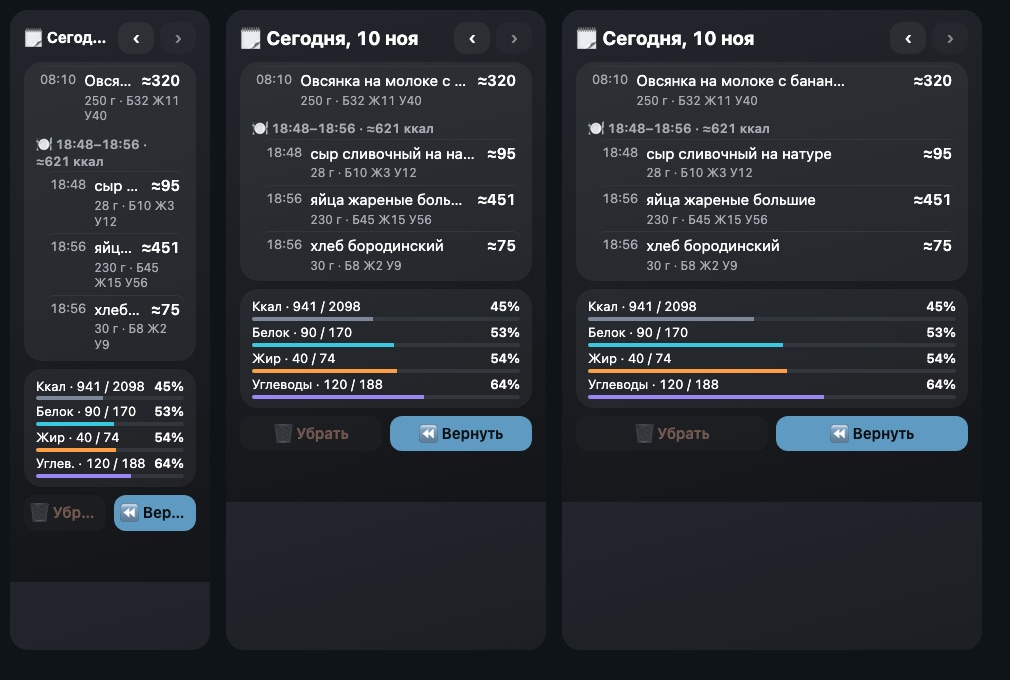
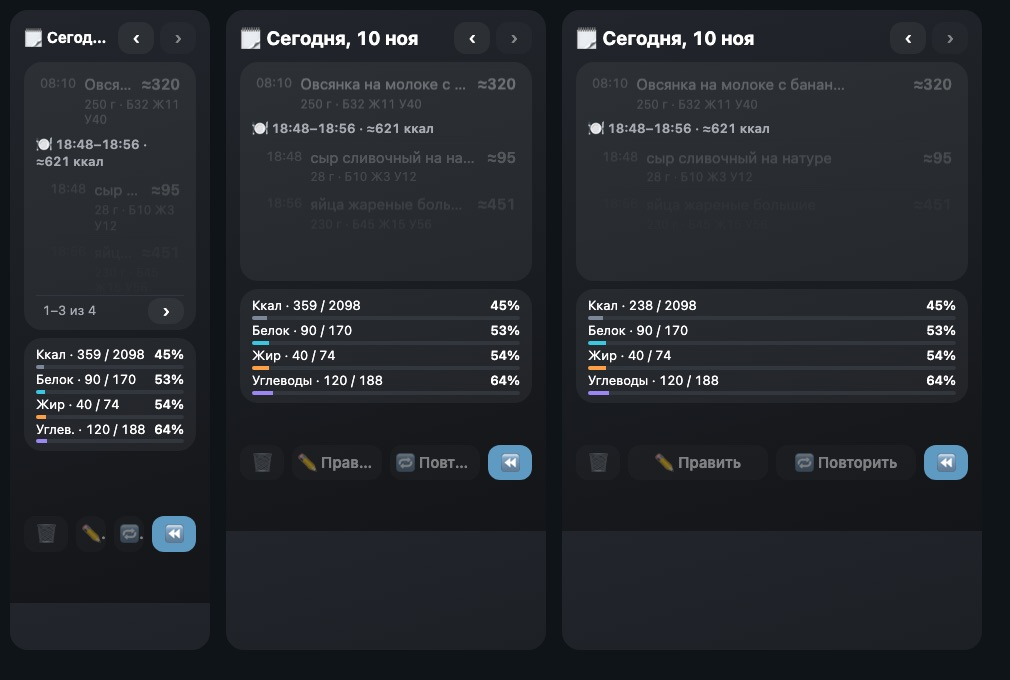
feat(bot): правка записи по тапу, повтор с весом, анимация по видимости
#comment Тап по записи в «Сегодня» открывает её карточку для правки граммов и удаления, в «Истории» — повтор с выбранным весом. Анимация стартует, когда виджет на экране, а низ пузыря держится на месте.

diff --git a/app/bot/widgets/day.html b/app/bot/widgets/day.html
@@ -8,23 +8,24 @@ button{font:inherit;font-weight:600;border:0;border-radius:12px;background:var(-
 .gh{font-size:13px;font-weight:600;padding:8px 0 2px;color:var(--m)}
 .e{display:grid;grid-template-columns:auto minmax(0,1fr) auto;gap:2px 8px;padding:4px 4px;border-top:1px solid var(--tr);cursor:pointer;border-radius:8px}.e.g{margin-left:10px}.e.on{background:var(--sl)}
 .e span{white-space:nowrap;overflow:hidden;text-overflow:ellipsis}.e small{grid-column:2/4;color:var(--m);font-size:12px}.e b{font-weight:600}
-.dy{padding:6px 12px}.dy>div{display:grid;grid-template-columns:minmax(0,1fr) auto;font-size:13px;margin:3px 0}.dy span{white-space:nowrap;overflow:hidden;text-overflow:ellipsis}.pg{display:flex;align-items:center;justify-content:flex-end;gap:8px;padding:6px 0;border-top:1px solid var(--tr)}@media (max-width:260px){header b{font-size:15px}}.dy b{font-weight:600}
+.dy{padding:6px 12px}.dy>div{display:grid;grid-template-columns:minmax(0,1fr) auto;font-size:13px;margin:2px 0}.dy span{white-space:nowrap;overflow:hidden;text-overflow:ellipsis}.pg{display:flex;align-items:center;justify-content:flex-end;gap:8px;padding:2px 0;border-top:1px solid var(--tr)}@media (max-width:260px){header b{font-size:15px}.pg .nv{height:26px}}.dy b{font-weight:600}
 .tk{grid-column:1/-1;height:4px;border-radius:2px;background:var(--tr);overflow:hidden;margin-top:2px}.tk i{display:block;height:100%}
 #ac{display:flex;gap:8px}#ac button{flex:1 1 0;white-space:nowrap;overflow:hidden;text-overflow:ellipsis;padding:8px 6px}.un{color:var(--al)}.bk{background:var(--ac);color:var(--at)}
+.rg{display:flex;align-items:center;gap:8px;margin-bottom:6px;font-size:13px}.rg button{width:34px;height:28px;padding:0;font-size:18px}.rg b{min-width:58px;text-align:center}
 .bz{opacity:.45;pointer-events:none}#ts{font-size:13px;margin-top:8px;color:var(--m);min-height:17px}
-.cu{counter-reset:n var(--n)}.cu::after{content:counter(n)}.an .cu{animation:cu 1s ease-out}@keyframes cu{from{--n:0}}.an .tk i{animation:g .9s ease-out}@keyframes g{from{width:0}}.an .e{animation:fu .4s ease-out both}@keyframes fu{from{opacity:0;transform:translateY(5px)}}@media (prefers-reduced-motion:reduce){.an *{animation:none!important}}</style>
+.an .tk i{animation:g .9s ease-out}@keyframes g{from{width:0}}.an .e{animation:fu .4s ease-out both}@keyframes fu{from{opacity:0;transform:translateY(5px)}}@media (prefers-reduced-motion:reduce){.an *{animation:none!important}}</style>
 <header><b id=tt></b><button class=nv data-n=1 aria-label="Предыдущий день">‹</button><button class=nv data-n=-1 aria-label="Следующий день">›</button></header>
-<div id=bd></div><div id=ac></div><div id=ts></div>
+<div id=bd></div><div id=rg></div><div id=ac></div><div id=ts></div>
 <script>
-let A1=1,CU=0;try{CSS.registerProperty({name:'--n',syntax:'<integer>',inherits:!1,initialValue:'0'});CU=1}catch(e){}const NU=v=>CU?'<span class=cu style="--n:'+v+'"></span>':v,AN=()=>{document.body.className=A1?'an':'';A1=0};
-const W=window.TelegramWidget,$=i=>document.getElementById(i),J=s=>{try{return JSON.parse(s)}catch(e){return null}},
+let A1=1;const TW=window.TelegramWidget;try{TW.setResizeAnchor('bottom')}catch(e){}const NU=v=>'<span class=cu data-n='+v+'>'+v+'</span>',AN=()=>{const v=!TW||TW.isActive!==!1;document.body.className=A1&&v?'an':'';if(A1&&v){A1=0;try{requestAnimationFrame(t0=>{const e=document.querySelectorAll('.cu'),f=t=>{const k=Math.min(1,(t-t0)/900);e.forEach(x=>x.textContent=Math.round(x.dataset.n*(1-(1-k)**3)));k<1&&requestAnimationFrame(f)};f(t0)})}catch(e){}}};try{TW.onEvent('activated',()=>{A1&&(window.RD||draw)()})}catch(e){}
+const W=TW,$=i=>document.getElementById(i),J=s=>{try{return JSON.parse(s)}catch(e){return null}},
 T=s=>(s+'').replace(/[&<>"]/g,c=>'&#'+c.charCodeAt(0)+';'),K=()=>Math.random().toString(36).slice(2,8).padEnd(6,'0'),
 L=['Ккал','Белок','Жир','Углеводы'],CL=['--br','--pr','--fa','--ca'],
 M={gone:'Этой записи уже нет.',old:'Вернуть уже нельзя — прошло 10 минут.',edited:'Запись уже поправили — не вернуть.',bad:'Так нельзя — открой историю заново.',busy:'Уже делаю…',TIMEOUT:'Бот не ответил — проверь в «Сегодня».',RATE_LIMITED:'Слишком часто — секунду.'};
-let D=null,S=null,WH=0,B=0,P=0;
+let D=null,S=null,WH=0,B=0,P=0,RG=0;
 const hp=t=>{try{t?W.HapticFeedback.notificationOccurred(t):W.HapticFeedback.selectionChanged()}catch(e){}},
 sel=x=>S&&x[0]==S[0]&&(!S[1]||x[1]==S[1]);
-function draw(){const d=D;if(!d||d.v!=1)return;const f=A1,nw=document.body.clientWidth<260,k=nw?4:5,pn=Math.ceil(d.e.length/k)||1;AN();$('tt').textContent='🗒 '+d.t;if(P>=pn)P=pn-1;
+function draw(){const d=D;if(!d||d.v!=1)return;const f=A1,nw=document.body.clientWidth<260,k=nw?3:4,pn=Math.ceil(d.e.length/k)||1;AN();$('tt').textContent='🗒 '+d.t;if(P>=pn)P=pn-1;
 document.querySelector('[data-n="-1"]').classList.toggle('bz',!d.da);let h='',g=-2;
 if(!d.e.length)h='<div class=m style="padding:10px 0">Ничего не записано.</div>';
 d.e.forEach((x,i)=>{if(i<P*k||i>=P*k+k)return;if(x[10]!=g){g=x[10];if(g>=0){const r=d.g[g];h+='<div class=gh>🍽 '+r[0]+' · '+(r[2]?'≈':'')+r[1]+' ккал</div>'}}
@@ -33,15 +34,18 @@ if(pn>1)h+='<div class=pg><span class=m>'+(P*k+1)+'–'+Math.min(d.e.length,P*k+
 if(d.mo&&P==pn-1)h+='<div class=m style="padding:4px 0">Ещё '+d.mo+' — в приложении ↓</div>';
 $('bd').innerHTML='<div class=c>'+h+'</div><div class="c dy">'+d.dy.map((r,i)=>'<div><span>'+(nw&&i==3?'Углев.':L[i])+' · '+(f&&!i?NU(r[0]):r[0])+' / '+r[1]+'</span><b'+(!i&&r[0]>r[1]?' style="color:var(--dg)"':'')+'>'+r[2]+'%</b><div class=tk><i style="width:'+Math.max(0,Math.min(100,r[2]))+'%;background:var('+CL[i]+')"></i></div></div>').join('')+'</div>';
 const x=S&&d.e.find(sel),whole=S&&!S[1];
-$('ac').innerHTML='<button class="un'+(x?'':' bz')+'" data-q=x>🗑 '+(whole?'Всю запись':'Убрать')+'</button>'+(d.da?'<button class="'+(x?'':'bz')+'" data-q=p>🔁 '+(whole?'Всю — в сегодня':'В сегодня')+'</button>':'')+(d.z?'<button class=bk data-q=r>⏪ Вернуть</button>':'')}
+const gw=x&&!whole&&x[4];
+$('rg').innerHTML='<div class=rg'+(gw?'':' style="visibility:hidden"')+'><span class=m>повторить</span><button data-g=-1>−</button><b>'+RG+' г</b><button data-g=1>+</button><span class=m>≈ '+(gw?Math.round(x[5]*RG/x[4]):0)+' ккал</span></div>';
+$('ac').innerHTML='<button class="un'+(x?'':' bz')+'" data-q=x style="flex:0 0 44px" aria-label="Убрать">🗑</button><button class="'+(x?'':'bz')+'" data-q=o>✏ Править</button><button class="'+(x?'':'bz')+'" data-q=p>🔁 '+(whole?'Всю запись':'Повторить')+'</button>'+(d.z?'<button class=bk data-q=r style="flex:0 0 44px" aria-label="Вернуть">⏪</button>':'')}
 function send(q,el){if(!W||!W.request||B)return;B=1;el&&el.classList.add('bz');
 const fin=(r,e)=>{B=0;el&&el.classList.remove('bz');if(r&&r.v){D=r;if(!D.e.some(sel))S=null;$('ts').textContent=r.tm||'';hp(r.ok?'success':'')}else{hp('error');$('ts').textContent=M[r?r.err:e&&e.code]||'Не вышло — попробуй ещё раз.'}draw()};
 try{W.request(q).then(a=>fin(J(a&&a.result)||{err:'fail'}),e=>fin(null,e))}catch(e){fin(null,null)}}
 document.addEventListener('click',ev=>{if(!D||B)return;const b=ev.target.closest('button'),r=ev.target.closest('[data-i]');
 if(b&&b.dataset.p){P+= +b.dataset.p;hp();draw();return}
 if(b&&b.dataset.n){P=0;const n=D.da+ +b.dataset.n;if(n<0)return;WH=Math.max(WH,$('bd').offsetHeight);$('bd').style.minHeight=WH+'px';S=null;$('ts').textContent='';send('h:d:'+n,b);return}
-if(b&&b.dataset.q){const q=b.dataset.q,x=S&&D.e.find(sel);if(q=='r')send('h:r:'+D.da+':'+K(),b);else if(x)send('h:'+q+':'+D.da+':'+x[0]+':'+(S[1]||0)+':'+K(),b);return}
-if(r){const x=D.e[+r.dataset.i];S=S&&S[0]==x[0]&&S[1]==x[1]&&x[11]?[x[0],0]:S&&S[0]==x[0]&&!S[1]?null:[x[0],x[1]];hp();draw()}});
+if(b&&b.dataset.g){RG=Math.min(2000,Math.max(1,RG+10*b.dataset.g));hp();draw();return}
+if(b&&b.dataset.q){const q=b.dataset.q,x=S&&D.e.find(sel);if(q=='r')send('h:r:'+D.da+':'+K(),b);else if(q=='o'&&x){try{W.request('o:'+x[0]+':'+K()).then(()=>hp('success'),()=>0)}catch(e){}$('ts').textContent='✏ Карточка записи — ниже.'}else if(x)send('h:'+q+':'+D.da+':'+x[0]+':'+(S[1]||0)+(q=='p'?':'+(S[1]&&x[4]?RG:0):'')+':'+K(),b);return}
+if(r){const x=D.e[+r.dataset.i];S=S&&S[0]==x[0]&&S[1]==x[1]&&x[11]?[x[0],0]:S&&S[0]==x[0]&&!S[1]?null:[x[0],x[1]];RG=x[4];hp();draw()}});
 if(W){W.onEvent('chatDataChanged',()=>{const d=J(W.chatData);if(d&&!B&&D&&d.da==D.da){D=d;draw()}});D=J(W.chatData);draw();try{W.ready&&W.ready()}catch(e){}}else{D=null}
 if(!D)document.body.insertAdjacentHTML('beforeend','<p class=m>Нет данных.</p>');
 </script>

diff --git a/app/bot/widgets/meal.html b/app/bot/widgets/meal.html
@@ -3,7 +3,7 @@
 body{margin:0;padding:12px 14px max(26px,env(safe-area-inset-bottom));font:15px/1.3 system-ui,sans-serif;overflow-wrap:anywhere;color:var(--t);background:linear-gradient(165deg,var(--b1),var(--b2));font-variant-numeric:tabular-nums}
 .r{display:flex;align-items:center;gap:6px}.sp{flex:1}.m{color:var(--m);font-size:13px}header{flex-wrap:wrap;margin-bottom:8px}header b{font-size:20px}
 .bg{font-size:clamp(26px,11vw,40px);font-weight:700;letter-spacing:-1px;line-height:1.05}.bg small{font-size:14px;color:var(--m);font-weight:500;margin-left:3px}
-.mc{display:flex;flex-wrap:wrap;gap:4px 12px;font-size:13px;color:var(--m);margin:4px 0 10px}.mc b{color:var(--t);font-weight:600}.d{display:inline-block;width:7px;height:7px;border-radius:50%;margin-right:4px}
+.mc{display:flex;flex-wrap:wrap;gap:4px 12px;font-size:13px;color:var(--m);margin:2px 0 8px}.mc b{color:var(--t);font-weight:600}
 .c{background:var(--cd);border-radius:18px;padding:4px 12px;margin-bottom:8px}
 .it{display:grid;grid-template-columns:minmax(0,1fr) auto auto;gap:6px 10px;padding:8px 0;border-top:1px solid var(--tr);align-items:center;cursor:pointer}.it:first-child{border:0}.it .m{text-align:right}.ed{grid-column:1/3}
 .nm{overflow:hidden;text-overflow:ellipsis;white-space:nowrap;font-weight:600}.nm s,.dy s{text-decoration:none;color:var(--m);font-weight:400}.kc{text-align:right;font-weight:600}.kc.pv{color:var(--m)}
@@ -15,14 +15,14 @@ button{font:inherit;font-weight:600;border:0;border-radius:12px;background:var(-
 #ac{display:flex;gap:8px;flex-wrap:wrap}#ac button{flex:1 1 120px;white-space:nowrap;padding:8px}.un{color:var(--al)}.bk{background:var(--ac);color:var(--at)}
 #ts{font-size:13px;margin-top:8px;color:var(--m)}#ts:empty{display:none}
 @media (max-width:260px){.st b{min-width:50px}.st button{width:28px}.bg{font-size:26px}.it{padding:6px 0}.dy{grid-template-columns:minmax(0,1fr);gap:4px;padding:8px 10px}.dy>div{grid-template-columns:auto minmax(0,1fr) auto;column-gap:5px;font-size:12px}.dy>div>b{grid-column:auto;order:1;font-size:12px;white-space:nowrap}.dy>div>i{order:2}}
-.cu{counter-reset:n var(--n)}.cu::after{content:counter(n)}.an .cu{animation:cu 1s ease-out}@keyframes cu{from{--n:0}}.an .tk i{animation:g .9s ease-out}@keyframes g{from{width:0}}@media (prefers-reduced-motion:reduce){.an *{animation:none!important}}</style>
+.an .tk i{animation:g .9s ease-out}@keyframes g{from{width:0}}@media (prefers-reduced-motion:reduce){.an *{animation:none!important}}</style>
 <header class=r><b id=hd>Записал</b><span class=m id=at></span><span class=sp></span></header>
 <div id=bd></div><div id=ac></div><div id=ts></div>
 <script>
-let A1=1,CU=0;try{CSS.registerProperty({name:'--n',syntax:'<integer>',inherits:!1,initialValue:'0'});CU=1}catch(e){}const NU=v=>CU?'<span class=cu style="--n:'+v+'"></span>':v,AN=()=>{document.body.className=A1?'an':'';A1=0};
-const W=window.TelegramWidget,$=i=>document.getElementById(i),J=s=>{try{return JSON.parse(s)}catch(e){return null}},R=Math.round,
+let A1=1;const TW=window.TelegramWidget;try{TW.setResizeAnchor('bottom')}catch(e){}const NU=v=>'<span class=cu data-n='+v+'>'+v+'</span>',AN=()=>{const v=!TW||TW.isActive!==!1;document.body.className=A1&&v?'an':'';if(A1&&v){A1=0;try{requestAnimationFrame(t0=>{const e=document.querySelectorAll('.cu'),f=t=>{const k=Math.min(1,(t-t0)/900);e.forEach(x=>x.textContent=Math.round(x.dataset.n*(1-(1-k)**3)));k<1&&requestAnimationFrame(f)};f(t0)})}catch(e){}}};try{TW.onEvent('activated',()=>{A1&&(window.RD||draw)()})}catch(e){}
+const W=TW,$=i=>document.getElementById(i),J=s=>{try{return JSON.parse(s)}catch(e){return null}},R=Math.round,
 T=s=>(s+'').replace(/[&<>"]/g,c=>'&#'+c.charCodeAt(0)+';'),K=()=>Math.random().toString(36).slice(2,8).padEnd(6,'0'),C=n=>(n+'').replace('.',','),
-M={busy:'Ещё пишу предыдущее…',gone:'Записи уже нет — открой «Сегодня».',old:'Вернуть уже нельзя — прошло 10 мин.',edited:'Запись уже поправили — не вернуть.',bad:'Не вышло — открой карточку заново.',RATE_LIMITED:'Слишком часто — секунду.',TIMEOUT:'Бот не ответил — проверь в «Сегодня».'};
+M={busy:'Ещё пишу…',gone:'Записи уже нет — открой «Сегодня».',old:'Вернуть уже нельзя — прошло 10 мин.',edited:'Запись уже поправили — не вернуть.',bad:'Не вышло — открой карточку заново.',RATE_LIMITED:'Слишком часто — секунду.',TIMEOUT:'Бот не ответил — проверь в «Сегодня».'};
 let D=null,B=0,P={},S=0,F={};
 const hp=t=>{try{t?W.HapticFeedback.notificationOccurred(t):W.HapticFeedback.selectionChanged()}catch(e){}},
 G=x=>P[x[0]]!=null?P[x[0]]:x[2],
@@ -31,7 +31,7 @@ toast=s=>{$('ts').textContent=s||''};
 function draw(){const d=D;if(!d||d.v!=1)return;AN();if(d.i[0]&&!d.i.some(x=>x[0]==S))S=d.i[0][0];const k=d.k;$('hd').textContent=d.hd||'Записал';$('at').textContent=d.at?d.at+' · '+d.dl:'';
 if(d.x){$('bd').innerHTML='<div class=c style="padding:10px 12px"><b>'+(d.nb?'📌 Вошло в набор «'+T(d.nb)+'»':'Запись удалена')+'</b><div class=m>'+(d.nb?'Карточка набора — ниже.':T(d.i.map(x=>x[1]).join(', '))+' · '+k[0]+'\u00a0ккал')+'</div></div>';$('ac').innerHTML=d.z?'<button class=bk data-q=r>⏪ Вернуть</button>':'';return}
 const nw=document.body.clientWidth<260,n=nw?3:4,V=d.i.length>n+1?d.i.slice(0,n):d.i;if(V!=d.i&&!V.some(x=>x[0]==S))V[n-1]=d.i.find(x=>x[0]==S);
-$('bd').innerHTML='<div class=bg>+'+NU(k[0])+'<small>ккал</small></div><div class=mc><span><i class=d style="background:var(--pr)"></i>Б <b>'+k[1]+'</b></span><span><i class=d style="background:var(--fa)"></i>Ж <b>'+k[2]+'</b></span><span><i class=d style="background:var(--ca)"></i>У <b>'+k[3]+'</b></span>'+(d.ss?'<span>приём пищи <b>'+d.ss+'</b></span>':'')+'</div><div class=c>'+
+$('bd').innerHTML='<div class=bg>+'+NU(k[0])+'<small>ккал</small></div><div class=mc>Б <b>'+k[1]+'</b> · Ж <b>'+k[2]+'</b> · У <b>'+k[3]+'</b>'+(d.ss?' · приём пищи <b>'+d.ss+'</b>':'')+'</div><div class=c>'+
 V.map(x=>{const g=G(x),p=g!=x[2],o=d.i.length<4||x[0]==S;return'<div class=it data-i='+x[0]+'><div class=nm>'+T(x[1])+(x[4]?' <s>≈</s>':'')+'</div><div class=m>'+(o||!x[2]?'':C(g)+'\u00a0г')+'</div><div class="kc'+(p?' pv':'')+'">'+(p?R(x[3]*g/x[2]):x[3])+'</div>'+
 (o?(x[5]?'<div class="st ed"><button data-s=-1>−</button><b'+(p?' class=pv':'')+'>'+C(g)+'\u00a0г</b><button data-s=1>+</button></div>':'<div class="m ed" style="text-align:left">'+(x[2]?C(x[2])+'\u00a0г · вес не правится':'без веса')+'</div>')+
 (d.i.length>1?'<button class=dl data-q=d>🗑</button>':'<span></span>'):'')+'</div>'}).join('')+(V.length<d.i.length?'<div class="it m" style="cursor:default;display:block">+'+(d.i.length-V.length)+' — правка в приложении ↓</div>':'')+'</div>'+
@@ -43,7 +43,7 @@ try{W.request(q+':'+K()).then(a=>fin(J(a&&a.result)||{err:'fail'}),e=>fin(null,e
 function flush(){if(B||!D||D.x)return;const x=D.i.find(x=>P[x[0]]!=null&&P[x[0]]!=x[2]&&P[x[0]]!=F[x[0]]);if(x){F[x[0]]=P[x[0]];send('m:a:'+D.m+':'+x[0]+':'+P[x[0]],document.querySelector('[data-i="'+x[0]+'"] .st'))}}
 document.addEventListener('click',ev=>{const b=ev.target.closest('button'),it=ev.target.closest('[data-i]');if(!b&&it&&D&&D.i.length>3){S=+it.dataset.i;hp();draw();return}if(!b||!D)return;const row=b.closest('[data-i]'),id=row&&+row.dataset.i,x=row&&D.i.find(x=>x[0]==id);
 if(b.dataset.s&&x){const g=Math.min(2000,Math.max(1,R(G(x))+10*b.dataset.s));if(g!=G(x)){P[id]=g;hp();draw();flush()}return}
-if(B){toast(M.BUSY);return}const q=b.dataset.q;
+if(B){toast(M.busy);return}const q=b.dataset.q;
 if(q=='d'&&x)send('m:d:'+D.m+':'+id,row);else if(q=='u'||q=='r')send('m:'+q+':'+D.m,b)});
 function load(){D=J(W&&W.chatData);P={};F={};draw()}
 function upd(){const d=J(W.chatData);if(B||!d||d.v!=1||(D&&d.rv<D.rv))return;D=d;draw()}

diff --git a/app/bot/widgets/frequent.html b/app/bot/widgets/frequent.html
@@ -11,19 +11,19 @@ header{display:flex;align-items:baseline;gap:8px;margin-bottom:10px}header b{fon
 #ts button[disabled]{background:var(--tr);color:var(--m)}
 @media (prefers-reduced-motion:reduce){.tl{transition:none}.tl.ok{animation:none;box-shadow:inset 0 0 0 2px var(--ok)}}
 @media (max-width:260px){#g{grid-template-columns:minmax(0,1fr);gap:6px}.tl{padding:8px 10px;min-height:0}.tl b{white-space:nowrap;text-overflow:ellipsis}header .m{display:none}}
-.an .tl{animation:fu .45s ease-out both}@keyframes fu{from{opacity:0;transform:translateY(6px)}}@media (prefers-reduced-motion:reduce){.an *{animation:none!important}}</style>
+.an .tl{animation:fu .45s ease-out both}@keyframes fu{from{opacity:0;transform:translateY(6px)}}@media (prefers-reduced-motion:reduce){.an *{animation:none!important}}@media (max-width:260px){#ts{display:none}}</style>
 <header><b>⚡ Частое</b><span class=m>тап — запишу сразу</span></header>
 <div id=g lang=ru></div><div id=ts><span id=tx></span><button id=ub>⏪ Вернуть</button></div>
 <script>
-let A1=1,CU=0;try{CSS.registerProperty({name:'--n',syntax:'<integer>',inherits:!1,initialValue:'0'});CU=1}catch(e){}const NU=v=>CU?'<span class=cu style="--n:'+v+'"></span>':v,AN=()=>{document.body.className=A1?'an':'';A1=0};
-const W=window.TelegramWidget,$=i=>document.getElementById(i),J=s=>{try{return JSON.parse(s)}catch(e){return null}},
+let A1=1;const TW=window.TelegramWidget;try{TW.setResizeAnchor('bottom')}catch(e){}const NU=v=>'<span class=cu data-n='+v+'>'+v+'</span>',AN=()=>{const v=!TW||TW.isActive!==!1;document.body.className=A1&&v?'an':'';if(A1&&v){A1=0;try{requestAnimationFrame(t0=>{const e=document.querySelectorAll('.cu'),f=t=>{const k=Math.min(1,(t-t0)/900);e.forEach(x=>x.textContent=Math.round(x.dataset.n*(1-(1-k)**3)));k<1&&requestAnimationFrame(f)};f(t0)})}catch(e){}}};try{TW.onEvent('activated',()=>{A1&&(window.RD||draw)()})}catch(e){}
+const W=TW,$=i=>document.getElementById(i),J=s=>{try{return JSON.parse(s)}catch(e){return null}},
 T=s=>(s+'').replace(/[&<>"]/g,c=>'&#'+c.charCodeAt(0)+';');
 let D=null,B=0,U=null;
 const K=()=>Math.random().toString(36).slice(2,8).padEnd(6,'0'),hp=t=>{try{W.HapticFeedback.notificationOccurred(t)}catch(e){}},
 L=l=>l<0?'перебор '+-l:'осталось '+l,
 ERR={BUSY:'Ещё пишу предыдущее…',RATE_LIMITED:'Слишком часто — секунду.',TIMEOUT:'Бот не ответил — проверь в «Сегодня».',NOT_ALLOWED:'Открой чат с ботом, чтобы записать.'};
 function draw(){AN();D=J(W&&W.chatData);const t=D&&D.t||[];$('g').innerHTML=t.length?t.map((x,i)=>'<div class=tl data-i='+i+' style="animation-delay:'+i*40+'ms"><b>'+(x[2][0]=='s'?'📌 ':'')+T(x[0])+'</b><span>'+(x[2][0]=='s'?'':T(x[1]).replace(' ','\u00a0')+' · ')+(x[4]?'≈':'')+x[3]+'\u00a0ккал</span></div>').join(''):'<p class=m>Пока нечего показать — запиши пару раз одно и то же.</p>'}
-function toast(s,u){$('ts').style.visibility='visible';$('tx').innerHTML=s;$('ub').style.display=u?'':'none';$('ub').disabled=false}
+function toast(s,u){$('ts').style.cssText='visibility:visible;display:flex';$('tx').innerHTML=s;$('ub').style.display=u?'':'none';$('ub').disabled=false}
 function idle(el){B=0;el.classList.remove('bz');const b=el.querySelector('b');b.innerHTML=b.dataset.n}
 document.addEventListener('click',ev=>{document.body.classList.remove('an');const el=ev.target.closest('.tl');
 if(el&&W&&!B){const x=D.t[+el.dataset.i],b=el.querySelector('b');B=1;document.querySelectorAll('.ok').forEach(t=>t.classList.remove('ok'));el.classList.add('bz');b.dataset.n=b.innerHTML;b.textContent='Пишу…';

diff --git a/app/bot/widgets/confirm.html b/app/bot/widgets/confirm.html
@@ -13,12 +13,12 @@ button{font:inherit;font-weight:600;border:0;border-radius:12px;background:var(-
 #ac{display:flex;gap:8px;flex-wrap:wrap}#ac button{flex:1 1 120px;padding:9px}.go{background:var(--ac);color:var(--at)}.no{background:var(--cd);color:var(--al)}
 .st{white-space:nowrap}@media (max-width:260px){.c{padding:4px 8px}.sz{font-size:11px;padding:3px 5px}.ch{gap:4px}#ac button{flex-basis:60px;font-size:13px;padding:8px 4px}}
 .bz{opacity:.45;pointer-events:none}#ts{font-size:13px;margin-top:8px;color:var(--m)}#ts:empty{display:none}.dn{font-weight:600;color:var(--ok)}
-.cu{counter-reset:n var(--n)}.cu::after{content:counter(n)}.an .cu{animation:cu .9s ease-out}@keyframes cu{from{--n:0}}.an .it{animation:fu .4s ease-out both}@keyframes fu{from{opacity:0;transform:translateY(6px)}}@media (prefers-reduced-motion:reduce){.an *{animation:none!important}}</style>
+.an .it{animation:fu .4s ease-out both}@keyframes fu{from{opacity:0;transform:translateY(6px)}}@media (prefers-reduced-motion:reduce){.an *{animation:none!important}}</style>
 <header><b>🍽 Проверь и запиши</b><div class=m>размер — тапом, граммы — ± 10</div></header>
 <div id=bd></div><div id=ac></div><div id=ts></div>
 <script>
-let A1=1,CU=0;try{CSS.registerProperty({name:'--n',syntax:'<integer>',inherits:!1,initialValue:'0'});CU=1}catch(e){}const NU=v=>CU?'<span class=cu style="--n:'+v+'"></span>':v,AN=()=>{document.body.className=A1?'an':'';A1=0};
-const W=window.TelegramWidget,$=i=>document.getElementById(i),J=s=>{try{return JSON.parse(s)}catch(e){return null}},R=Math.round,
+let A1=1;const TW=window.TelegramWidget;try{TW.setResizeAnchor('bottom')}catch(e){}const NU=v=>'<span class=cu data-n='+v+'>'+v+'</span>',AN=()=>{const v=!TW||TW.isActive!==!1;document.body.className=A1&&v?'an':'';if(A1&&v){A1=0;try{requestAnimationFrame(t0=>{const e=document.querySelectorAll('.cu'),f=t=>{const k=Math.min(1,(t-t0)/900);e.forEach(x=>x.textContent=Math.round(x.dataset.n*(1-(1-k)**3)));k<1&&requestAnimationFrame(f)};f(t0)})}catch(e){}}};try{TW.onEvent('activated',()=>{A1&&(window.RD||draw)()})}catch(e){}
+const W=TW,$=i=>document.getElementById(i),J=s=>{try{return JSON.parse(s)}catch(e){return null}},R=Math.round,
 T=s=>(s+'').replace(/[&<>"]/g,c=>'&#'+c.charCodeAt(0)+';'),K=()=>Math.random().toString(36).slice(2,8).padEnd(6,'0'),
 M={need:'Выбери размер у отмеченных.',old:'Разбор устарел — пришли еду заново.',bad:'Так не записать — пришли еду заново.',busy:'Уже записываю…',TIMEOUT:'Бот не ответил — проверь в «Сегодня».',RATE_LIMITED:'Слишком часто — секунду.'};
 let D=null,G=[],B=0,ND=0,DONE='';

diff --git a/app/bot/widgets/evening.html b/app/bot/widgets/evening.html
@@ -11,14 +11,14 @@ body{margin:0;padding:12px 14px max(26px,env(safe-area-inset-bottom));font:15px/
 button{font:600 15px system-ui,sans-serif;border:0;border-radius:14px;padding:11px 14px;width:100%;background:var(--ac);color:var(--at);cursor:pointer;margin-top:8px}
 button[disabled]{background:var(--tr);color:var(--m)}.dn{color:var(--ok);font-weight:600}
 @media (max-width:260px){.bg{font-size:20px}.bg small{display:block;margin:0}.hr{gap:8px}#cl .m{display:none}#nt div{font-size:13px}}
-.cu{counter-reset:n var(--n)}.cu::after{content:counter(n)}.an .cu{animation:cu 1s ease-out}@keyframes cu{from{--n:0}}.an .tk i{animation:g .9s ease-out}@keyframes g{from{width:0}}@media (prefers-reduced-motion:reduce){.an *{animation:none!important}}</style>
+.an .tk i{animation:g .9s ease-out}@keyframes g{from{width:0}}@media (prefers-reduced-motion:reduce){.an *{animation:none!important}}</style>
 <header class=r><b>🌙 Итог дня</b><span class=m id=dl></span><span class=sp></span><span class=p id=sk></span></header>
 <div class=c><div class=hr id=hr></div><div class=ft id=ft></div></div>
 <div class=c id=nt></div>
 <div class=c id=cl></div>
 <script>
-let A1=1,CU=0;try{CSS.registerProperty({name:'--n',syntax:'<integer>',inherits:!1,initialValue:'0'});CU=1}catch(e){}const NU=v=>CU?'<span class=cu style="--n:'+v+'"></span>':v,AN=()=>{document.body.className=A1?'an':'';A1=0};
-const W=window.TelegramWidget,$=i=>document.getElementById(i),J=s=>{try{return JSON.parse(s)}catch(e){return null}},
+let A1=1;const TW=window.TelegramWidget;try{TW.setResizeAnchor('bottom')}catch(e){}const NU=v=>'<span class=cu data-n='+v+'>'+v+'</span>',AN=()=>{const v=!TW||TW.isActive!==!1;document.body.className=A1&&v?'an':'';if(A1&&v){A1=0;try{requestAnimationFrame(t0=>{const e=document.querySelectorAll('.cu'),f=t=>{const k=Math.min(1,(t-t0)/900);e.forEach(x=>x.textContent=Math.round(x.dataset.n*(1-(1-k)**3)));k<1&&requestAnimationFrame(f)};f(t0)})}catch(e){}}};try{TW.onEvent('activated',()=>{A1&&(window.RD||draw)()})}catch(e){}
+const W=TW,$=i=>document.getElementById(i),J=s=>{try{return JSON.parse(s)}catch(e){return null}},
 T=s=>(s+'').replace(/[&<>"]/g,c=>'&#'+c.charCodeAt(0)+';'),K=()=>Math.random().toString(36).slice(2,8).padEnd(6,'0'),
 bar=(v,g,c)=>'<div class=tk><i style="width:'+(g>0?Math.max(0,Math.min(100,v/g*100)):0)+'%;background:var('+c+')"></i></div>',
 M={TIMEOUT:'Бот не ответил — попробуй ещё раз.',RATE_LIMITED:'Слишком часто — секунду.'};

diff --git a/app/bot/widgets/burn.html b/app/bot/widgets/burn.html
@@ -7,12 +7,12 @@ body{margin:0;padding:12px 14px max(26px,env(safe-area-inset-bottom));font:15px/
 .rw{display:grid;grid-template-columns:minmax(0,1fr) auto;gap:2px 8px;font-size:13px;margin:6px 0}.rw b{font-weight:600}
 .tk{grid-column:1/-1;height:8px;border-radius:4px;background:var(--tr);overflow:hidden}.tk i{display:block;height:100%}
 .pp{font-weight:600;color:var(--ok)}
-.cu{counter-reset:n var(--n)}.cu::after{content:counter(n)}.an .cu{animation:cu 1s ease-out}@keyframes cu{from{--n:0}}.an .tk i{animation:g .9s ease-out}@keyframes g{from{width:0}}@media (prefers-reduced-motion:reduce){.an *{animation:none!important}}</style>
+.an .tk i{animation:g .9s ease-out}@keyframes g{from{width:0}}@media (prefers-reduced-motion:reduce){.an *{animation:none!important}}</style>
 <header><b>🔥 Реальный расход</b></header>
 <div id=bd></div>
 <script>
-let A1=1,CU=0;try{CSS.registerProperty({name:'--n',syntax:'<integer>',inherits:!1,initialValue:'0'});CU=1}catch(e){}const NU=v=>CU?'<span class=cu style="--n:'+v+'"></span>':v,AN=()=>{document.body.className=A1?'an':'';A1=0};
-const W=window.TelegramWidget,$=i=>document.getElementById(i),J=s=>{try{return JSON.parse(s)}catch(e){return null}},
+let A1=1;const TW=window.TelegramWidget;try{TW.setResizeAnchor('bottom')}catch(e){}const NU=v=>'<span class=cu data-n='+v+'>'+v+'</span>',AN=()=>{const v=!TW||TW.isActive!==!1;document.body.className=A1&&v?'an':'';if(A1&&v){A1=0;try{requestAnimationFrame(t0=>{const e=document.querySelectorAll('.cu'),f=t=>{const k=Math.min(1,(t-t0)/900);e.forEach(x=>x.textContent=Math.round(x.dataset.n*(1-(1-k)**3)));k<1&&requestAnimationFrame(f)};f(t0)})}catch(e){}}};try{TW.onEvent('activated',()=>{A1&&(window.RD||draw)()})}catch(e){}
+const W=TW,$=i=>document.getElementById(i),J=s=>{try{return JSON.parse(s)}catch(e){return null}},
 T=s=>(s+'').replace(/[&<>"]/g,c=>'&#'+c.charCodeAt(0)+';');
 let D=null;
 function draw(){D=J(W&&W.chatData);if(!D||D.v!=1)return;AN();const d=D,h=[];

diff --git a/app/bot/widgets/weight.html b/app/bot/widgets/weight.html
@@ -14,8 +14,8 @@ svg{display:block;width:100%;height:auto}.ax{display:flex;justify-content:space-
 <div class=c><svg id=sv viewBox="0 0 300 120"></svg><div class=ax><span id=a></span><span id=z></span></div><div id=tp class=m>Тап по точке — дата и вес</div></div>
 <div class=ft><div>с прошлого<b id=f1></b></div><div>за период<b id=f2></b></div><div>за 4 недели<b id=f3></b></div></div>
 <script>
-let A1=1,CU=0;try{CSS.registerProperty({name:'--n',syntax:'<integer>',inherits:!1,initialValue:'0'});CU=1}catch(e){}const NU=v=>CU?'<span class=cu style="--n:'+v+'"></span>':v,AN=()=>{document.body.className=A1?'an':'';A1=0};
-const W=window.TelegramWidget,$=i=>document.getElementById(i),J=s=>{try{return JSON.parse(s)}catch(e){return null}},
+let A1=1;const TW=window.TelegramWidget;try{TW.setResizeAnchor('bottom')}catch(e){}const NU=v=>'<span class=cu data-n='+v+'>'+v+'</span>',AN=()=>{const v=!TW||TW.isActive!==!1;document.body.className=A1&&v?'an':'';if(A1&&v){A1=0;try{requestAnimationFrame(t0=>{const e=document.querySelectorAll('.cu'),f=t=>{const k=Math.min(1,(t-t0)/900);e.forEach(x=>x.textContent=Math.round(x.dataset.n*(1-(1-k)**3)));k<1&&requestAnimationFrame(f)};f(t0)})}catch(e){}}};try{TW.onEvent('activated',()=>{A1&&(window.RD||draw)()})}catch(e){}
+const W=TW,$=i=>document.getElementById(i),J=s=>{try{return JSON.parse(s)}catch(e){return null}},
 K=v=>v==null?'—':(v>0?'+':'')+(v.toFixed(1)).replace('.',',').replace('-','−'),A=v=>K(v).replace('+',''),M=['янв','фев','мар','апр','мая','июн','июл','авг','сен','окт','ноя','дек'];
 let D=null;
 function dt(n){const d=new Date(D.a0+'T12:00:00Z');d.setUTCDate(d.getUTCDate()+n);return d.getUTCDate()+' '+M[d.getUTCMonth()]}

diff --git a/app/bot/widgets/week.html b/app/bot/widgets/week.html
@@ -20,8 +20,8 @@ footer{font-size:13px;color:var(--m);margin-top:10px}
 <div class=c><div class=m id=al></div><div class=ft id=ft></div></div>
 <footer id=tl></footer>
 <script>
-let A1=1,CU=0;try{CSS.registerProperty({name:'--n',syntax:'<integer>',inherits:!1,initialValue:'0'});CU=1}catch(e){}const NU=v=>CU?'<span class=cu style="--n:'+v+'"></span>':v,AN=()=>{document.body.className=A1?'an':'';A1=0};
-const W=window.TelegramWidget,$=i=>document.getElementById(i),J=s=>{try{return JSON.parse(s)}catch(e){return null}},
+let A1=1;const TW=window.TelegramWidget;try{TW.setResizeAnchor('bottom')}catch(e){}const NU=v=>'<span class=cu data-n='+v+'>'+v+'</span>',AN=()=>{const v=!TW||TW.isActive!==!1;document.body.className=A1&&v?'an':'';if(A1&&v){A1=0;try{requestAnimationFrame(t0=>{const e=document.querySelectorAll('.cu'),f=t=>{const k=Math.min(1,(t-t0)/900);e.forEach(x=>x.textContent=Math.round(x.dataset.n*(1-(1-k)**3)));k<1&&requestAnimationFrame(f)};f(t0)})}catch(e){}}};try{TW.onEvent('activated',()=>{A1&&(window.RD||draw)()})}catch(e){}
+const W=TW,$=i=>document.getElementById(i),J=s=>{try{return JSON.parse(s)}catch(e){return null}},
 T=s=>(s+'').replace(/[&<>"]/g,c=>'&#'+c.charCodeAt(0)+';'),N=n=>(n+'').replace(/\B(?=(\d{3})+(?!\d))/g,'\u202f'),
 CL=['--nu','--ok','--wa','--dg'],WD=['не записан','в цели','меньше половины цели','перебор'];
 let D=null,M=0,S=-1;

diff --git a/app/bot/widgets/meal.py b/app/bot/widgets/meal.py
@@ -44,6 +44,7 @@ _ADJ = re.compile(rf"m:a:{_ID}:{_ID}:([0-9]{{1,4}}):{_KEY}")
 _DEL = re.compile(rf"m:d:{_ID}:{_ID}:{_KEY}")
 _UNDO = re.compile(rf"m:u:{_ID}:{_KEY}")
 _BACK = re.compile(rf"m:r:{_ID}:{_KEY}")
+_OPEN = re.compile(rf"o:{_ID}:{_KEY}")
 
 _done: dict[tuple[int, str], tuple[float, dict[str, Any]]] = {}  # (кто, ключ) → (когда, ответ)
 
@@ -56,6 +57,8 @@ class _Undo:
 
 
 _undo: dict[tuple[int, int], _Undo] = {}
+# Карточки, открытые тапом по записи (D-69): шапка «Запись», не «Записал» (MA-INV-70).
+_opened: set[tuple[int, int]] = set()
 # (кто, сообщение) → ревизия, что уже лежит в сообщении: правка со старшей не ложится поверх.
 _rv: dict[tuple[int, int], int] = {}
 _now = time.monotonic
@@ -70,7 +73,7 @@ def _sweep(now: float) -> None:
 
 async def _card(
     assistant: Assistant, user: User, meal: Meal, *, undo: int = 0, deleted: bool = False,
-    left: Remaining | None = None, head: str | None = None,
+    left: Remaining | None = None, head: str | None = None, opened: bool = False,
 ) -> tuple[str | None, str, MealSession | None]:
     """Данные, подпись и приём пищи (FR-47, только из нескольких записей) карточки из базы;
     остаток — дня самой записи, а не сегодняшнего."""
@@ -80,8 +83,11 @@ async def _card(
         sess = None
     ss = sum(m.totals.kcal for m in sess.meals) if sess is not None else None
     data = meal_data(meal, left, user.timezone, session_kcal=ss, undo=undo, deleted=deleted,
-                     head=head)
-    return data, meal_caption(meal, deleted=deleted), sess
+                     head="Запись" if opened else head)
+    caption = meal_caption(meal, deleted=deleted)
+    if opened and not deleted:
+        caption = caption.replace("✅ Записал:", "✏ Запись:", 1)
+    return data, caption, sess
 
 
 async def show(
@@ -204,7 +210,8 @@ async def _answer(
     meal: Meal, *, undo: int, deleted: bool = False, slot: _Undo | None = None,
     drop_slot: bool = False,
 ) -> live.Outcome:
-    data, caption, sess = await _card(assistant, user, meal, undo=undo, deleted=deleted)
+    data, caption, sess = await _card(assistant, user, meal, undo=undo, deleted=deleted,
+                                      opened=(uid, mid) in _opened)
     if data is None:
         # Карточка после правки не влезла в 1024 байта: исключение откатит сессию — правка не
         # сохранится молча за ответом «не вышло» (и «Вернуть» не потеряется).
@@ -311,4 +318,42 @@ async def _apply(
                          slot=new)
 
 
+async def on_open(
+    uid: int, mid: int, data: str, user: User, assistant: Assistant
+) -> live.Outcome:
+    """`o:<запись>:<ключ>` — тап по записи в «Сегодня» / «✏ Править» в «Истории» (D-69): её
+    карточка приёма следом — там ±10 г, 🗑, «Отменить всё», «Вернуть». Ничего не пишет."""
+    m = _OPEN.fullmatch(data)
+    if m is None:
+        return live.Outcome({"err": "bad"})
+    now = _now()
+    _sweep(now)
+    key = (uid, m.group(2))
+    if (seen := _done.get(key)) is not None:
+        return live.Outcome(seen[1])  # двойной тап — одна карточка
+    meal = await assistant.get_meal(user, int(m.group(1)))
+    if meal is None:
+        return live.Outcome({"err": "gone"})  # чужая или уже удалённая
+    left = await assistant.day_left(user, meal.eaten_at)
+    data_, caption, sess = await _card(assistant, user, meal, left=left, opened=True)
+    if data_ is None:
+        return live.Outcome({"err": "bad"})
+    reply: dict[str, Any] = {"ok": 1}
+
+    def commit() -> None:
+        _done[key] = (now, reply)
+
+    async def send(bot: Bot) -> None:
+        msg = await bot(SendWidget(
+            chat_id=uid, html=template("meal"), chat_data=data_, caption=caption,
+            allow_queries=True, reply_markup=meal_widget_keyboard(meal, sess),
+        ))
+        if len(_opened) > 200:  # ponytail: двое людей; чистим целиком — худшее: шапка «Записал»
+            _opened.clear()
+        _opened.add((uid, msg.message_id))
+
+    return live.Outcome(reply, commit=commit, after=send)
+
+
 live.ROUTES["m"] = on_meal
+live.ROUTES["o"] = on_open

diff --git a/tests/unit/test_widgets.py b/tests/unit/test_widgets.py
@@ -82,8 +82,9 @@ _OUT_OF_PROFILE = [
     r":has\(", r"clip-path", r"text-shadow", r"src=[\"']?https?:", r"@import", r"@font-face",
     r"position:\s*sticky", r"overflow:\s*(auto|scroll)", r"\bfetch\(", r"XMLHttpRequest",
     r"-webkit-line-clamp", r"<foreignObject", r"<animate",
-    # D-56: рантайм виджета не обязан их иметь — без них «Сегодня» показывал бы 0 навсегда
-    r"requestAnimationFrame", r"setTimeout", r"setInterval",
+    # профиль виджетов (core.telegram.org/bots/widgets): `@property` — вне; таймеры есть, но
+    # анимации — CSS и rAF (D-70), таймеры не нужны
+    r"@property", r"setTimeout", r"setInterval",
 ]
 
 
@@ -123,8 +124,8 @@ def test_данные_обычного_дня() -> None:
     assert d["h"] == [[5, 420, 1], [9, 700, 1]]
     assert d["nk"] == 990  # «сейчас» кривой — число Python (`DayPace.today_kcal`), W-INV-1
     # свежие первыми; граммы и Б/Ж/У записи — Python (W-INV-1), под строкой «100 г · Б35 Ж23 У88»
-    assert d["it"][0] == [9, "05", "Курица", 700, 0, 100, 35, 23, 88]
-    assert d["it"][1] == [5, "12", "Овсянка", 420, 1, 100, 21, 14, 52]
+    assert d["it"][0] == [9, "05", "Курица", 700, 0, 100, 35, 23, 88, meals[1].id]
+    assert d["it"][1] == [5, "12", "Овсянка", 420, 1, 100, 21, 14, 52, meals[0].id]
     assert d["s"] == [3, 0, 3, 3] and d["pk"] == round(d["e"][1] / 91.5, 1)
 
 
@@ -1200,12 +1201,15 @@ def test_плитка_частого_граммы_не_отрываются() ->
 
 @pytest.mark.parametrize("path", sorted(WIDGETS.glob("*.html")), ids=lambda p: p.name)
 def test_анимация_только_css_и_при_появлении(path: Path) -> None:
-    """D-64: анимация — CSS под классом `an`, который ставится только первым показом; счётчику
-    свойство регистрирует JS в `try` (нет `registerProperty` — число сразу финальное, D-56);
-    `prefers-reduced-motion` её снимает."""
+    """D-64, D-70: анимация — когда виджет на экране (`isActive`, событие `activated`): Telegram
+    создаёт виджет до показа, и анимация при создании доигрывала невидимо. Числа досчитывает rAF
+    из `data-n`, в разметке сразу финальное (нет rAF — нет счёта). Низ пузыря стоит на месте при
+    смене высоты (`setResizeAnchor('bottom')`) — лента не уезжает с последнего сообщения."""
     html = path.read_text()
-    assert "AN=()=>{document.body.className=A1?'an':'';A1=0}" in html
-    assert "try{CSS.registerProperty(" in html
+    assert "try{TW.setResizeAnchor('bottom')}catch(e){}" in html
+    assert "AN=()=>{const v=!TW||TW.isActive!==!1;document.body.className=A1&&v?'an':''" in html
+    assert "try{TW.onEvent('activated',()=>{A1&&(window.RD||draw)()})}catch(e){}" in html
+    assert "try{requestAnimationFrame(" in html and "registerProperty" not in html
     assert re.search(r"prefers-reduced-motion:reduce\)\{[^}]*\.an \*\{animation:none", html)
     assert ".an " in html.split("</style>")[0]
 
@@ -1213,7 +1217,7 @@ def test_анимация_только_css_и_при_появлении(path: Pa
 def test_сегодня_одинаковый_ответ_не_перерисовывает() -> None:
     """Тяга `t:` приходит через долю секунды после показа: тот же день не должен перерисовать
     героя и оборвать счёт (D-64)."""
-    assert "sm=K==k" in template("today") and "if(sm)return;" in template("today")
+    assert "sm=K==k" in template("today") and "if(sm&&!A1)return;" in template("today")
 
 
 def test_сегодня_тап_по_часу_не_меняет_высоту() -> None:

diff --git a/app/bot/widgets/day.py b/app/bot/widgets/day.py
@@ -1,4 +1,5 @@
-"""«🗒 История» виджетом (FR-49.8, D-67): день с листанием ‹ ›, 🗑 позиции, ⏪ Вернуть, 🔁 в сегодня.
+"""«🗒 История» виджетом (FR-49.8, D-67, D-68): листание ‹ ›, 🗑 позиции, ⏪ Вернуть,
+🔁 повторить с весом.
 
 Те же use-case, что у кнопок rich-экрана дня: `remove_item` / `delete_meal`, `restore_meal` со
 сверкой отпечатка (FR-41), `repeat_item` / `repeat_meal` (FR-42). Числа — `day_card` (MA-INV-1).
@@ -25,6 +26,7 @@ from app.bot.keyboards import open_in_app
 from app.bot.ui.widgets import day_data
 from app.bot.widgets import live, template
 from app.bot.widgets.transport import EditMessageWidgetData, SendWidget
+from app.domain.plausibility import MAX_PORTION_G, MIN_PORTION_G
 
 logger = logging.getLogger(__name__)
 
@@ -34,7 +36,7 @@ _KEY = r"([0-9a-z]{4,10})"
 _READ = re.compile(r"h:d:([0-9]{1,3})")
 _DEL = re.compile(rf"h:x:([0-9]{{1,3}}):([0-9]{{1,10}}):([0-9]{{1,10}}):{_KEY}")
 _BACK = re.compile(rf"h:r:([0-9]{{1,3}}):{_KEY}")
-_REP = re.compile(rf"h:p:([0-9]{{1,3}}):([0-9]{{1,10}}):([0-9]{{1,10}}):{_KEY}")
+_REP = re.compile(rf"h:p:([0-9]{{1,3}}):([0-9]{{1,10}}):([0-9]{{1,10}}):([0-9]{{1,4}}):{_KEY}")
 CAPTION = "🗒 История"
 
 
@@ -145,16 +147,18 @@ async def _write(
     if meal is None:
         return live.Outcome({"err": "gone"})  # чужая или уже удалённая
 
-    if op == "p":  # «🔁 В сегодня» (FR-42): только с прошлого дня — сегодня повтор задвоил бы
-        if da == 0:
-            return live.Outcome({"err": "bad"})
+    if op == "p":  # «🔁 Повторить» в сегодня с выбранным весом (FR-42, D-68), с любого дня
+        grams = int(m.group(4))
         if item_id and item_id not in {i.id for i in meal.items}:
             return live.Outcome({"err": "bad"})
-        res = (await assistant.repeat_item(user, meal_id, item_id) if item_id
-               else await assistant.repeat_meal(user, meal_id))
+        if grams and not MIN_PORTION_G <= grams <= MAX_PORTION_G:
+            return live.Outcome({"err": "bad"})
+        res = (await assistant.repeat_item(user, meal_id, item_id, grams=float(grams) or None)
+               if item_id else await assistant.repeat_meal(user, meal_id))
         if res is None:
             return live.Outcome({"err": "gone"})
-        what = ", ".join(i.name_snapshot for i in res.meal.items)
+        what = ", ".join(i.name_snapshot + (f" {round(i.grams)} г" if i.grams else "")
+                         for i in res.meal.items)
         what = what if len(what) <= 40 else what[:39] + "…"
         text = await _day(assistant, user, da, slot_key in _undo)
         kcal = round(res.meal.totals.kcal)
